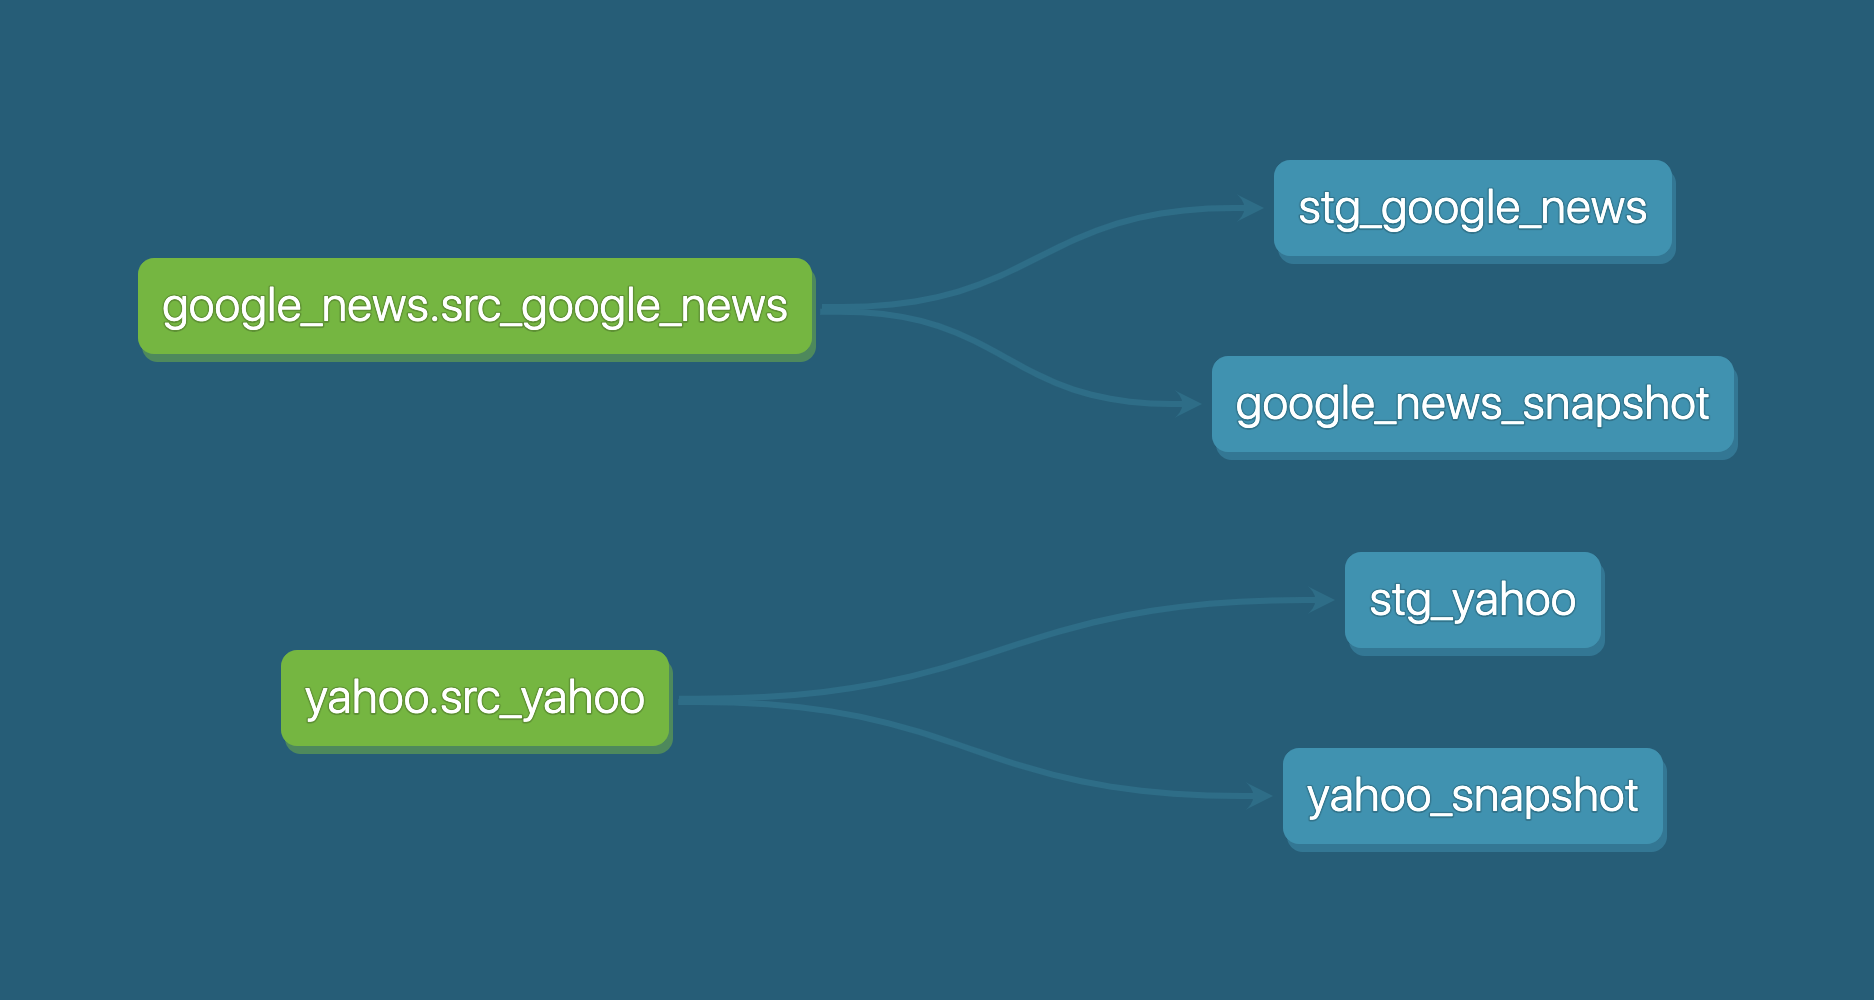
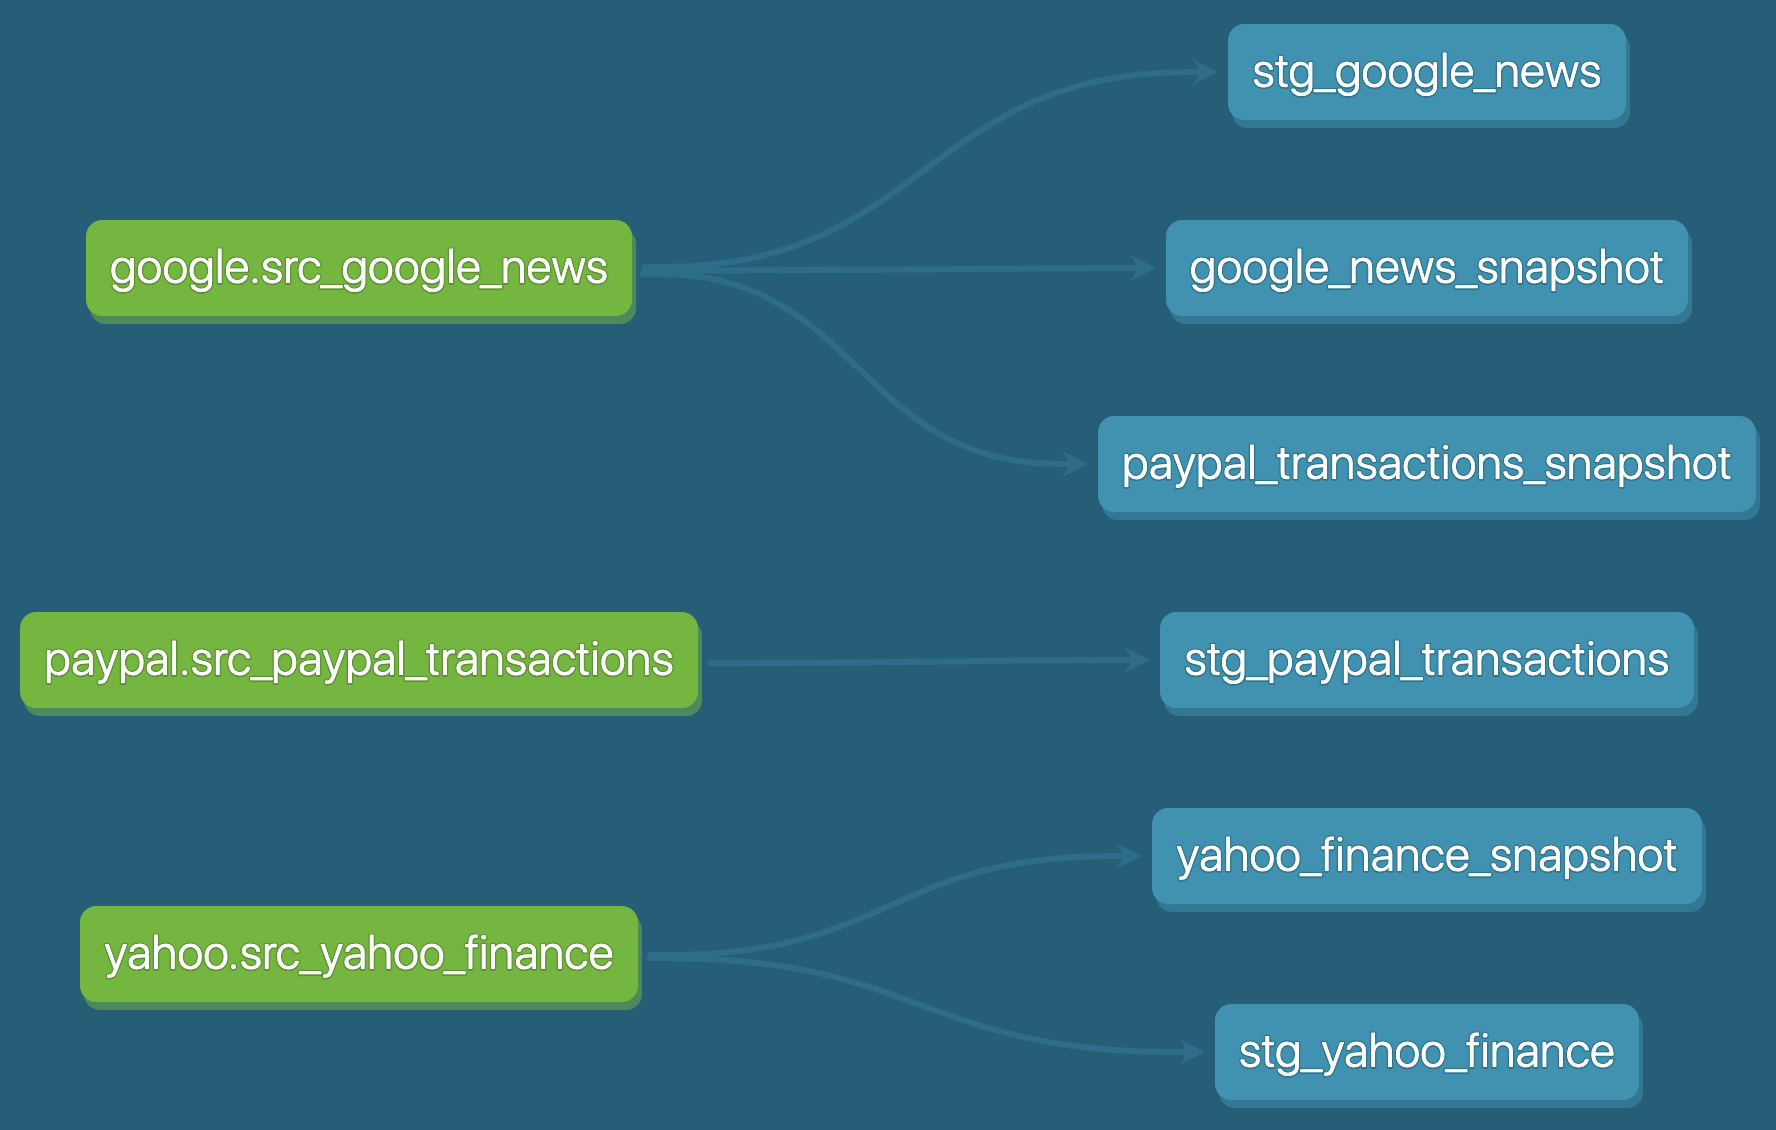
Add paypal_transactions snapshot and update docs

diff --git a/README.md b/README.md
@@ -1,29 +1,37 @@
 # finance-data-builder
 
-The finance data builder extracts data from several sources, loads it into a postgres database and transforms it 
-via dbt into beautiful models.
+> Finance 🏦 Data Builder 🛠 @ postgres 🐘
+
+The finance data builder **extracts** data from several sources, **loads** it into a postgres database and 
+**transforms** it via dbt into beautiful models.
 
 The data sources are:
 * [yahoo! finance](https://finance.yahoo.com/)
 * [Google News](https://news.google.com/)
+* [PayPal](https://www.paypal.com/)
+    * [transactions](https://developer.paypal.com/docs/api/transaction-search/v1/)
 
 ## What it is
 
 ### Airflow
 
-I use Airflow to load data into the database:
+I use [Airflow](http://airflow.apache.org/) to **manage** the whole **ELT** process:
 
-From **Google News**:
+For **Google News**:
 
 ![airflow graph google news](images/airflow_graph__google_news.png "Airflow Graph - Google News")
 
-From **yahoo! finance**:
+For **yahoo! finance**:
 
 ![airflow graph yahoo](images/airflow_graph__yahoo.png "Airflow Graph - Yahoo")
 
+For **PayPal**:
+
+![airflow graph paypal](images/airflow_graph__paypal.png "Airflow Graph - PayPal")
+
 ### DBT
 
-I use DBT to transform the data into models:
+I use [DBT](https://www.getdbt.com/) to **transform** the data into **models**:
 
 ![dbt graph](images/dbt_graph.png "DBT Graph")
 
@@ -31,8 +39,8 @@ I use DBT to transform the data into models:
 
 ### Prerequisites
 
-- docker
-- docker-compose
+- [docker](https://www.docker.com/)
+- [docker-compose](https://docs.docker.com/compose/)
 
 ### Setup
 
